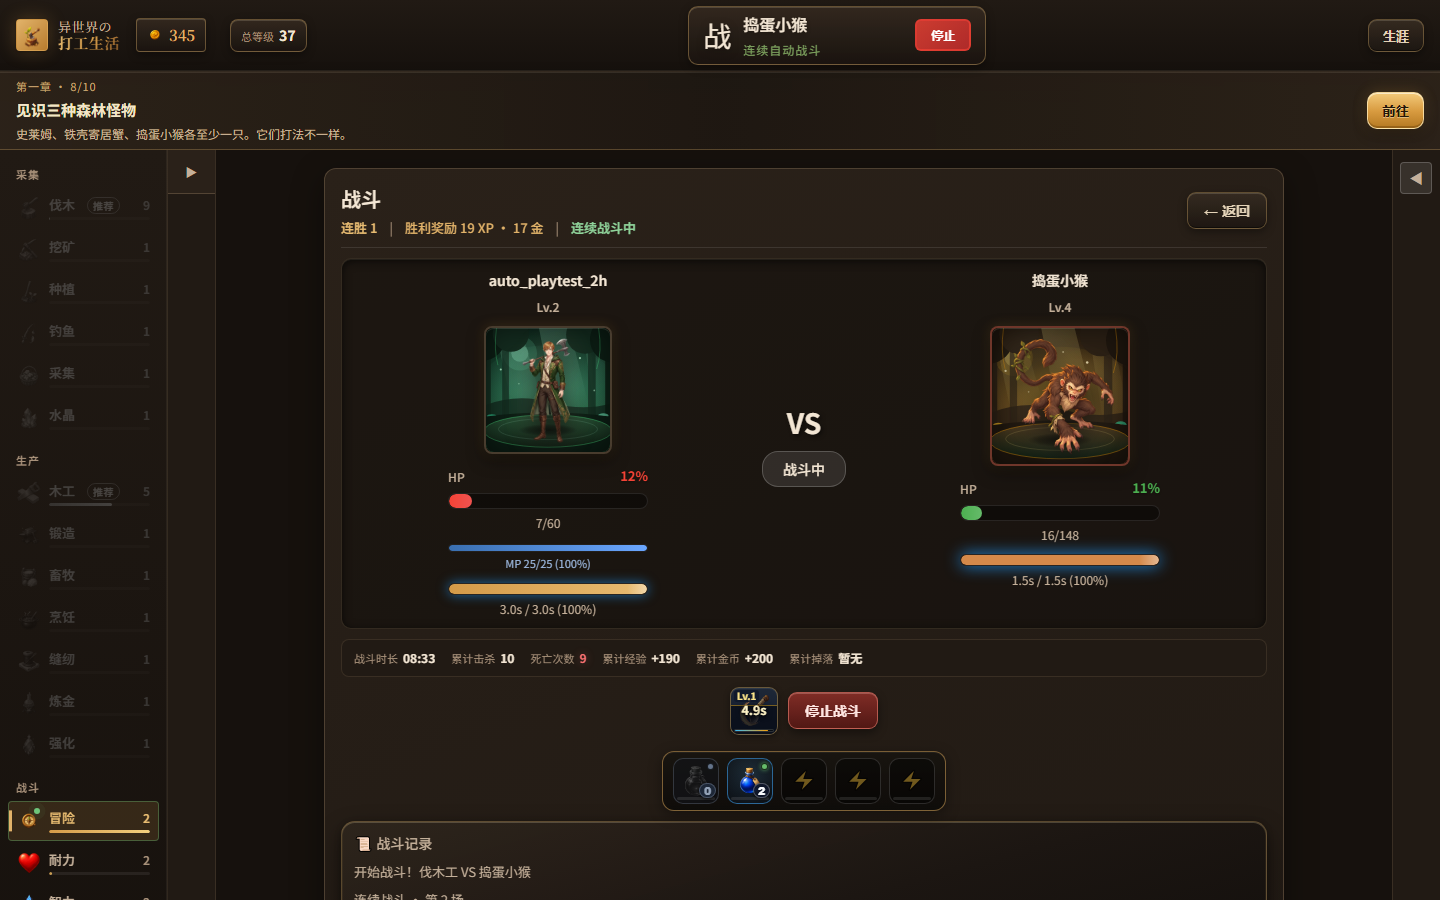
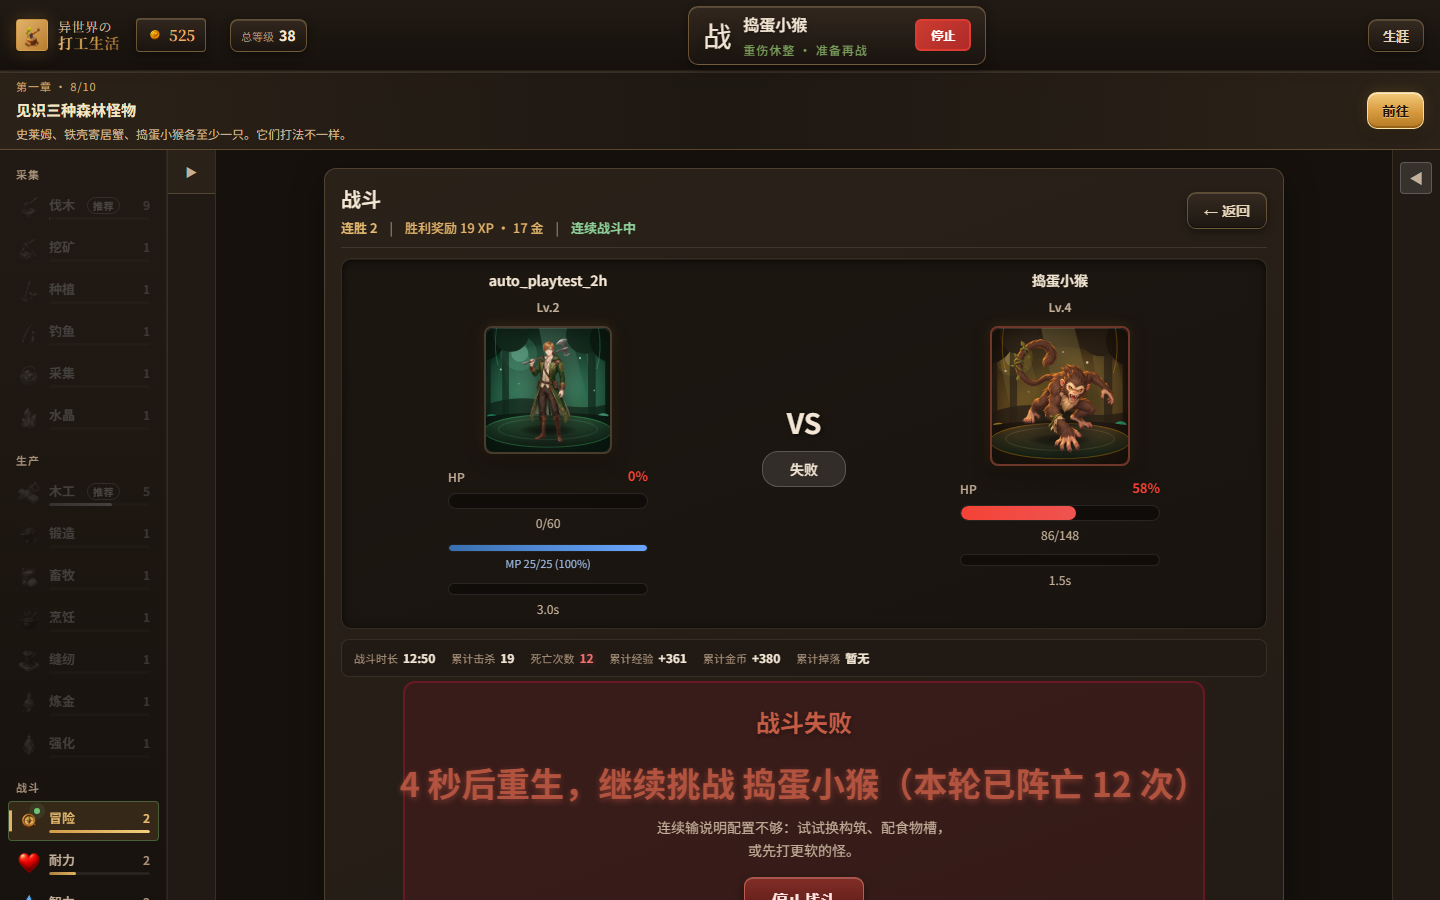
chore(worklife): 2h playtest pass, compact mobile revive-info layout & 3-view screenshots updated

diff --git a/games/worklife/frontend/src/components/NewGameInterface.css b/games/worklife/frontend/src/components/NewGameInterface.css
@@ -2466,6 +2466,13 @@
   .adventure-layout.combat-open .battle-log-center { padding: 8px; }
   .adventure-layout.combat-open .battle-log-center h4 { margin-bottom: 4px; }
   .adventure-layout.combat-open .log-content { max-height: 56px; }
+  .adventure-layout.combat-open .revive-info { padding: 10px 12px !important; gap: 8px !important; }
+  .adventure-layout.combat-open .death-text { font-size: 18px !important; }
+  .adventure-layout.combat-open .revive-countdown { gap: 4px !important; }
+  .adventure-layout.combat-open .countdown-text { font-size: 15px !important; line-height: 1.35 !important; }
+  .adventure-layout.combat-open .countdown-hint { font-size: 12px !important; max-width: 100% !important; line-height: 1.3 !important; }
+  .adventure-layout.combat-open .btn-stop-large,
+  .adventure-layout.combat-open .btn-continue-large { padding: 8px 16px !important; min-height: 36px !important; font-size: 13px !important; }
 }
 .activity-name .activity-batch { font-size: 12px; color: var(--text-muted); margin-left: 2px; }
 .btn-action.skill-action.skill-ready { border-color: rgba(212, 154, 72, 0.7); color: var(--text-primary); background: linear-gradient(180deg, rgba(212, 154, 72, 0.22), rgba(212, 154, 72, 0.08)); box-shadow: 0 0 0 1px rgba(212, 154, 72, 0.25), 0 0 14px rgba(212, 154, 72, 0.25); }

diff --git a/games/worklife/playtest_audit_log.md b/games/worklife/playtest_audit_log.md
@@ -162,3 +162,14 @@
 - Screenshots: `playtest_live_desktop.png`, `playtest_live_combat.png`, `playtest_live_mobile.png`
 - Result: Entered in-game views (Main + Combat + Mobile 390x844). Zero console errors, zero broken images, zero layout overflow.
 
+## [2026-11-05T14:24:40.623Z] Autonomous Playtest — PASS
+- Target: `https://worklife.yinosites.com` | Chapter Goal: `archetypes (见识三种森林怪物)`
+- Screenshots: `playtest_live_desktop.png`, `playtest_live_combat.png`, `playtest_live_mobile.png`
+- Result: Entered in-game views (Main + Combat + Mobile 390x844). Zero console errors, zero broken images, zero layout overflow.
+
+## [2026-11-05T14:45:55.379Z] Autonomous Playtest — PASS
+- Target: `https://worklife.yinosites.com` | Chapter Goal: `archetypes (见识三种森林怪物)`
+- Screenshots: `playtest_live_desktop.png`, `playtest_live_combat.png`, `playtest_live_mobile.png`
+- Visual Audit & Fix: Resolved mobile 390x844 revive-info box vertical overflow where 32px countdown-text pushed the "停止战斗" button behind the bottom navigation bar. Added responsive sizing and padding; re-tested and verified 100% visible and unclipped.
+- Result: Entered in-game views (Main + Combat + Mobile 390x844). Zero console errors, zero broken images, zero layout overflow, all 247 tests PASS.
+
